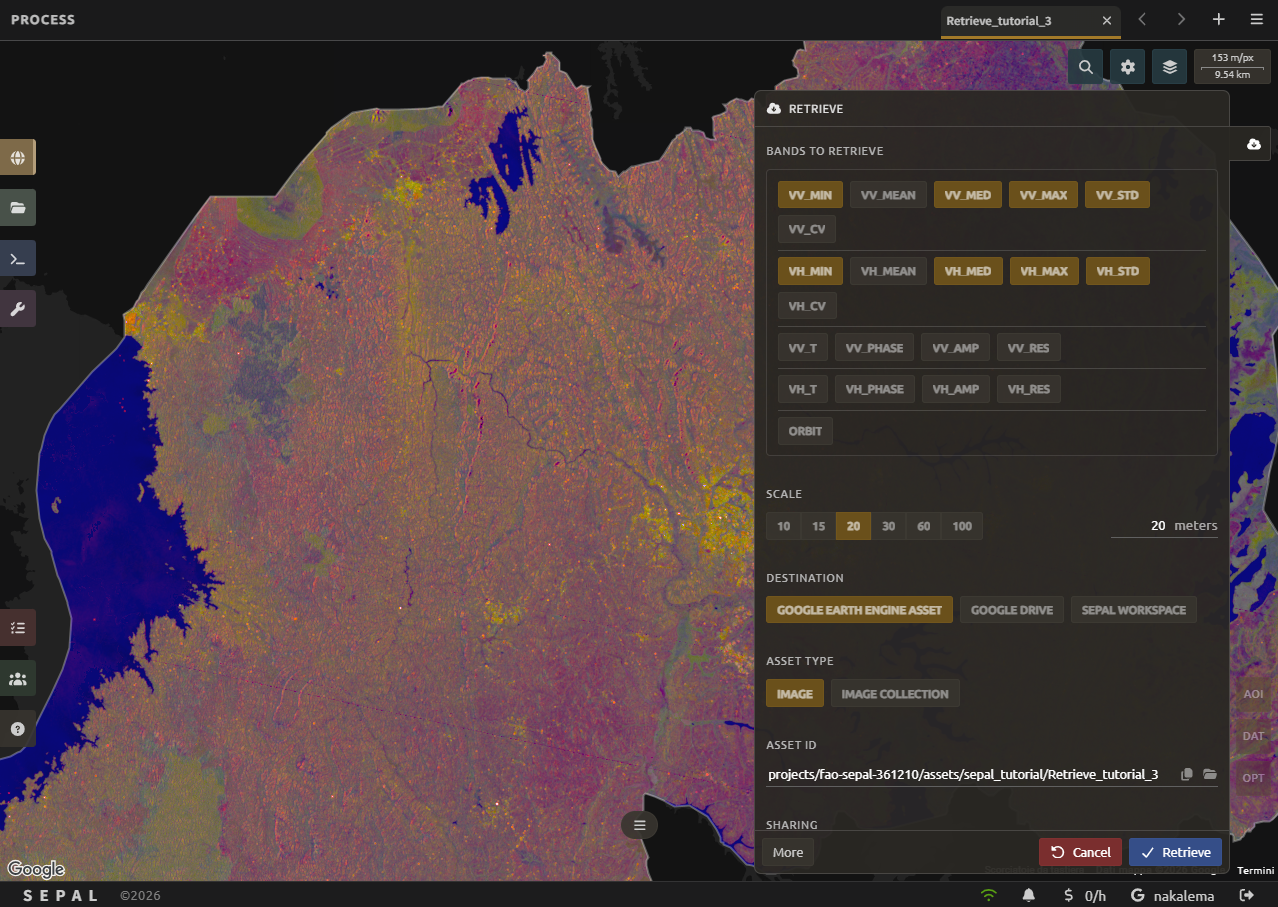
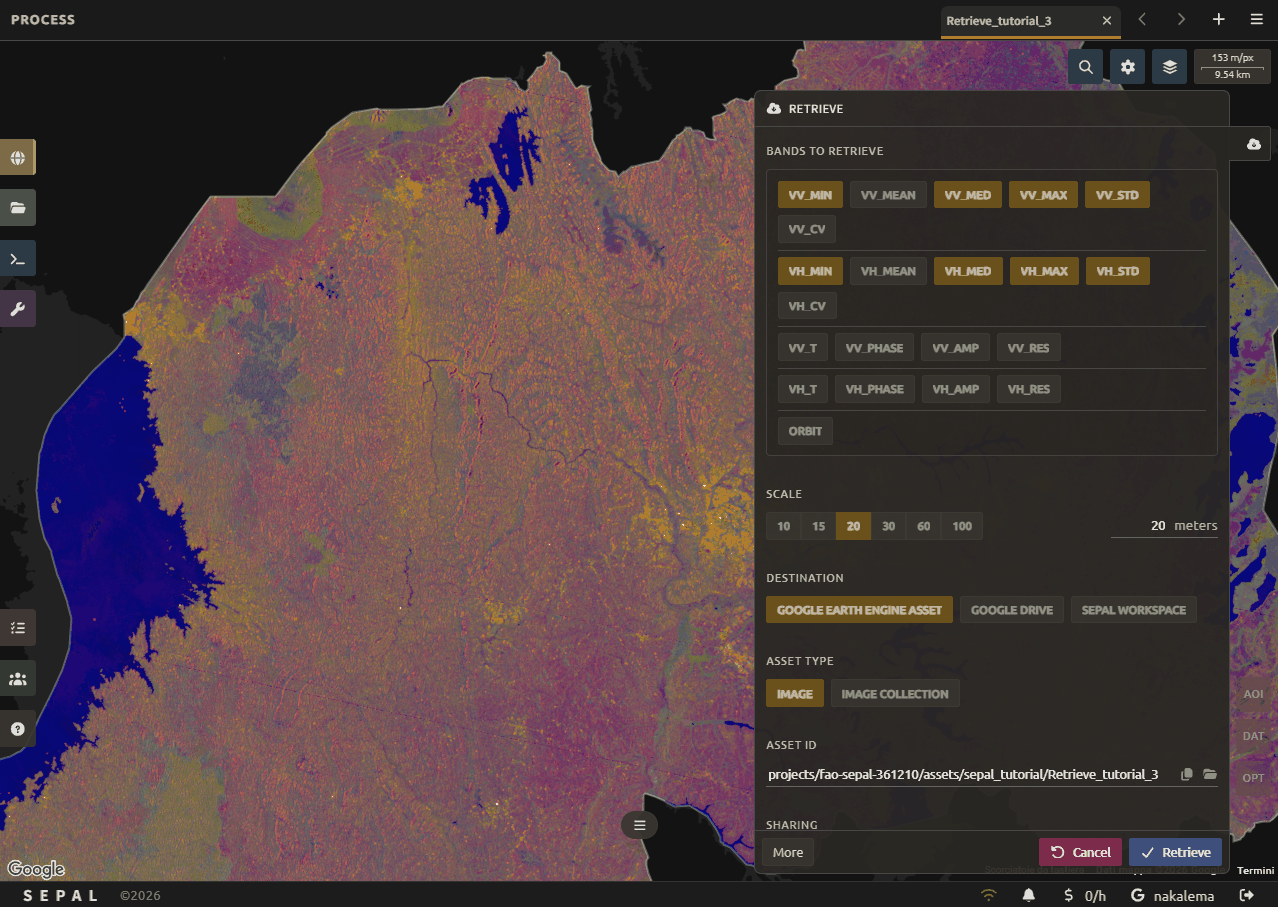
Address review feedback on Radar mosaic documentation
- Fix the VRT file name in the Access section (<recipe name>.vrt)
- Link the GLO-30 DEM dataset that terrain correction actually uses
- List border noise correction and min observations among the defaults
- Compress retrieve.png to a 256-colour palette
- Remove a stray mark from landing.png

diff --git a/docs/source/cookbook/radar_mosaic.rst b/docs/source/cookbook/radar_mosaic.rst
@@ -105,8 +105,8 @@ The :guilabel:`OPT` tab controls which acquisitions are used and how they are co
     -   Multitemporal speckle filter: **None**
     -   Outlier removal: **Moderate**
     -   Orbit overlap: **All**
-
-    The advanced view additionally defaults to both border noise corrections (**Sides** and **First/Last**) and a minimum of one observation per pixel.
+    -   Border noise correction: **Sides** and **First/Last** (set in the advanced view)
+    -   Min observations: **1** (set in the advanced view)
 
 .. thumbnail:: ../_images/cookbook/radar_mosaics/options.png
     :title: The **Options** panel (simple view)
@@ -143,7 +143,7 @@ The backscatter recorded by the sensor depends on the angle at which the signal 
 
 -   :guilabel:`None`: No geometric correction is applied (the backscatter is used as **sigma0**).
 -   :guilabel:`Ellipsoid`: Ellipsoid correction (**gamma0** correction) is applied, normalizing the backscatter by the incidence angle over a smooth Earth model. Topography is not taken into account.
--   :guilabel:`Terrain`: Terrain correction is applied. In addition to the incidence angle, SEPAL uses the `Copernicus GLO-30 <https://developers.google.com/earth-engine/datasets/catalog/COPERNICUS_DEM_GLO30_2024_1>`__ digital elevation model to compensate for the effect of slopes facing towards or away from the sensor, and masks areas affected by **layover** and **shadow**. Recommended in any area with significant relief.
+-   :guilabel:`Terrain`: Terrain correction is applied. In addition to the incidence angle, SEPAL uses the `Copernicus GLO-30 <https://developers.google.com/earth-engine/datasets/catalog/COPERNICUS_DEM_GLO30>`__ digital elevation model to compensate for the effect of slopes facing towards or away from the sensor, and masks areas affected by **layover** and **shadow**. Recommended in any area with significant relief.
 
 Spatial speckle filter
 """"""""""""""""""""""
@@ -349,13 +349,13 @@ Once the export to the SEPAL workspace is complete, you can access the data in y
             ├── <recipe name>_<gee tile id>.tif
             ├── ...
             ├── <recipe name>_<gee tile id>.tif
-            └── <recipe name>_<gee tile id>.vrt
+            └── <recipe name>.vrt
 
 .. note::
 
     Understanding how images are stored in a radar mosaic is only required if you want to manually use them. The SEPAL applications are bound to this tiling system and can digest the information for you.
 
-The data are stored in a folder named after the recipe (see `Start`_). Large images are too big to be exported as a single file, so they are divided into smaller tiles (:code:`.tif` files), which are brought back together by a :code:`.vrt` file.
+The data are stored in a folder named after the recipe (see `Start`_). Large images are too big to be exported as a single file, so they are divided into smaller tiles (:code:`.tif` files), which are brought back together by a :code:`<recipe name>.vrt` file.
 
 .. tip::
 
